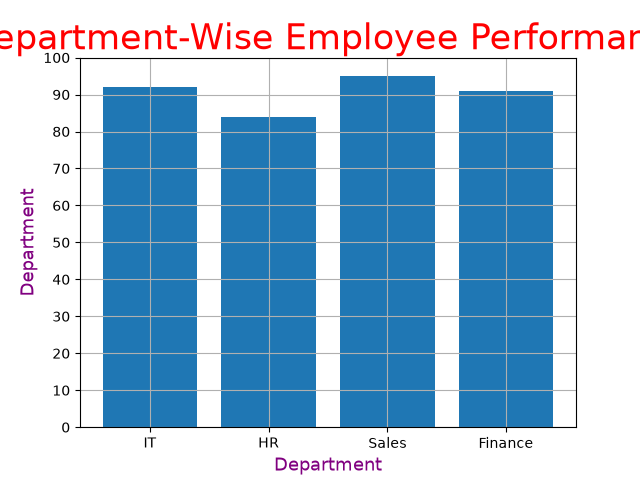
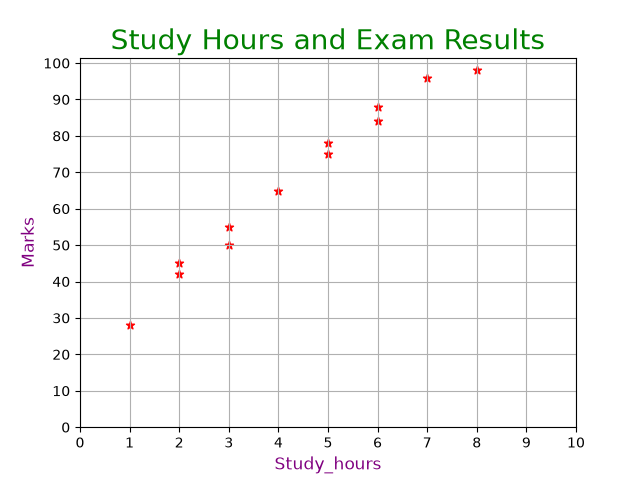
Add Mini_project_4.py: Implement scatter plot for study hours and exam results analysis

diff --git a/Mini_project_4.py b/Mini_project_4.py
@@ -1,0 +1,51 @@
+# Question 4: Study Hours and Exam Results
+
+# Chart Type: Scatter Plot
+
+# A college wants to investigate whether students who study more hours tend to achieve higher marks.
+
+# Dataset
+
+
+
+# df = pd.DataFrame(data)
+
+# Tasks
+
+# 1. Calculate the average marks of all students.
+# 2. Identify students who scored more than 80 marks.
+# 3. Find the student who studied the most hours.
+# 4. Create a scatter plot with study hours on the X-axis and marks on the Y-axis.
+# 5. Customize the marker color, shape, and size.
+# 6. Set the X-axis limit from 0 to 10 and the Y-axis limit from 0 to 100.
+# 7. Add a title, axis labels, and grid.
+# 8. Analyze whether the data suggests a relationship between study hours and marks.
+
+import pandas as pd
+import matplotlib.pyplot as plt
+
+data = {
+    "Student": ["Aman", "Priya", "Rahul", "Neha", "Rohit",
+                "Sneha", "Vikas", "Pooja", "Arjun", "Simran",
+                "Karan", "Meena"],
+    "Study_Hours": [1, 2, 3, 4, 5, 2, 6, 3, 7, 5, 8, 6],
+    "Marks": [28, 42, 50, 65, 78, 45, 88, 55, 96, 75, 98, 84],
+    "Attendance": [55, 65, 72, 80, 90, 68, 95, 75, 98, 88, 99, 92]
+}
+df = pd.DataFrame(data)
+print(df)
+a=df["Marks"].mean()
+print(a)
+b=df[df["Marks"]>80]
+print(b)
+c=df.loc[df["Study_Hours"].idxmax()]
+print(c)
+plt.scatter(df["Study_Hours"],df["Marks"],marker="*",color="red")
+plt.xticks(range(0,11))
+plt.yticks(range(0,110,10))
+plt.title("Study Hours and Exam Results",color="green",fontsize=20)
+plt.grid()
+plt.xlabel("Study_hours",color="purple",fontsize=12)
+plt.ylabel("Marks",color="purple",fontsize=12)
+plt.savefig("project_4.png")
+plt.show()
